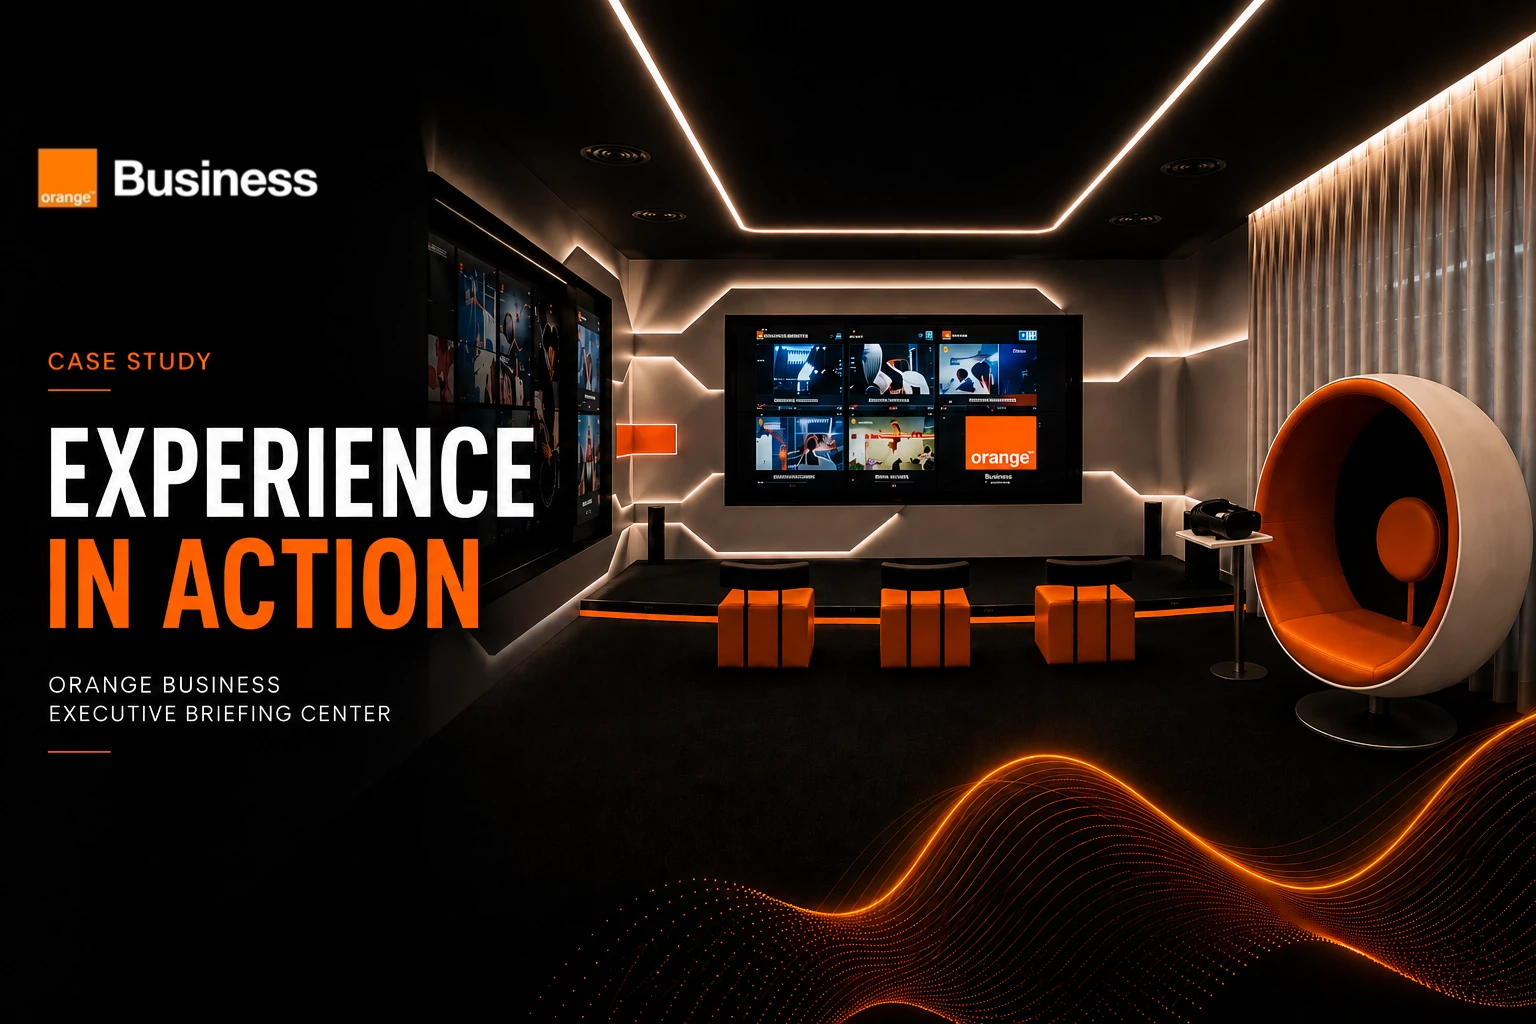
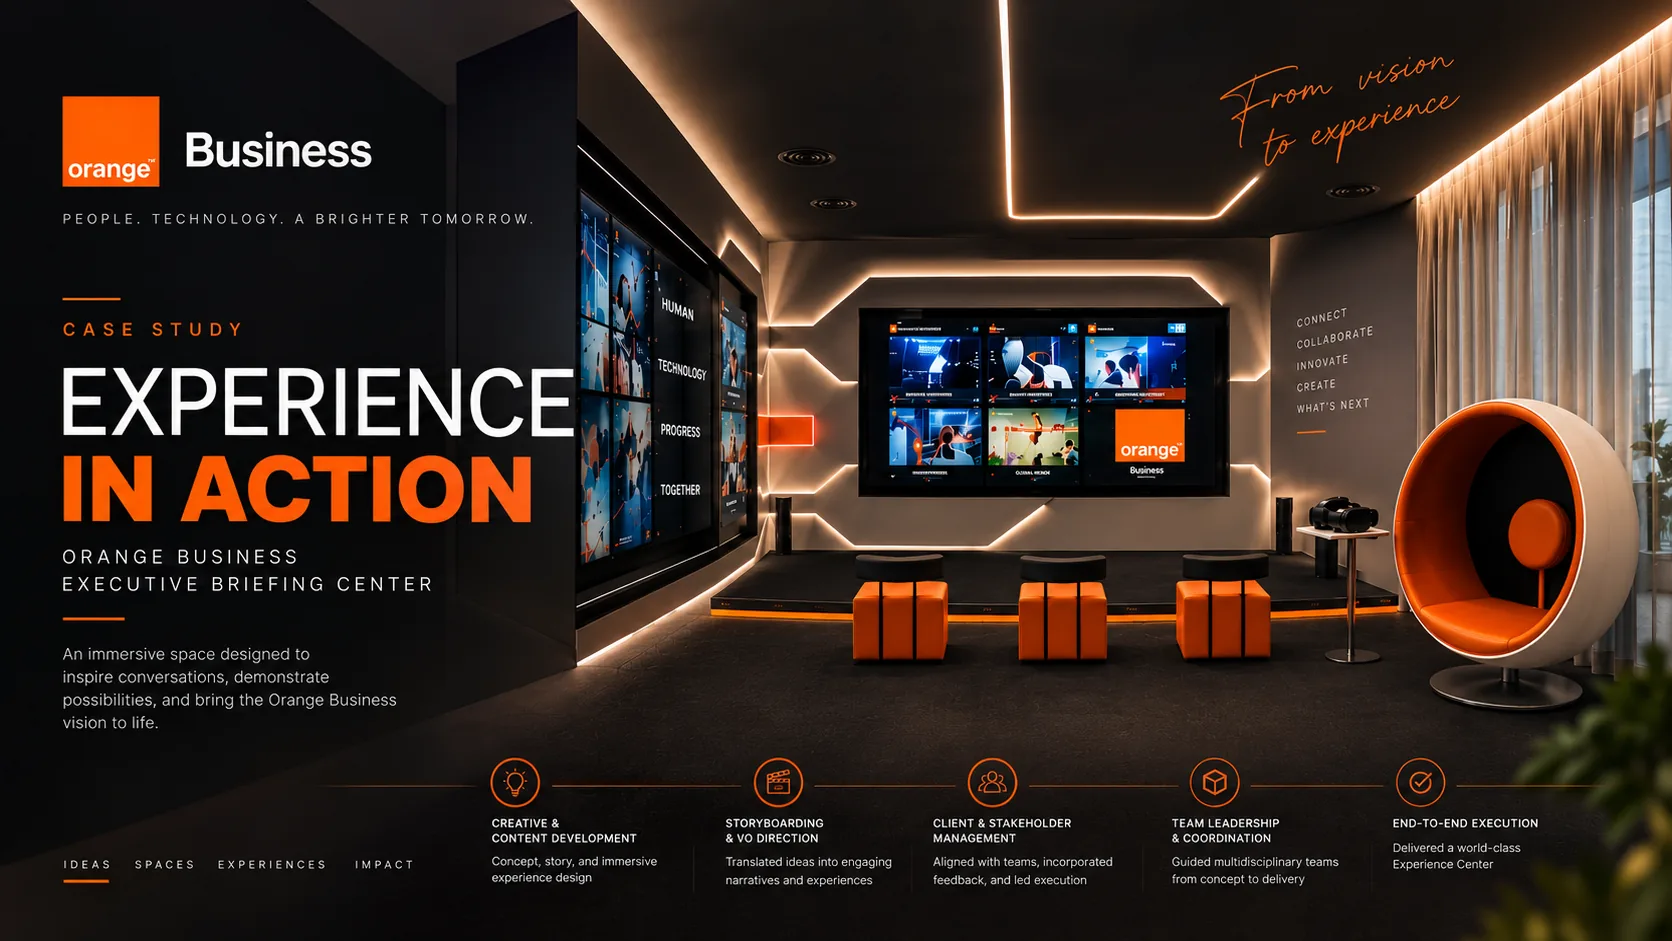
Update Indian Army and Orange Business thumbnails across the site (v2.4.20-r7)
- new 1672x941 branded artwork for case-army.webp and case-orange-experience-in-action.webp
- homepage, case-studies listing, portfolio reel, Indian Army hero, JSON-LD, og:image
- Indian Army card: contain/never-crop treatment like Orange + BPCL; reel data-fit=contain
- cache-bust (?v=20260909), corrected dimensions/alt text, stylesheet fingerprint bump
- admin media copies refreshed; CMS media registry synced

diff --git a/portfolio.html b/portfolio.html
@@ -27,7 +27,7 @@
   <meta name="twitter:image" content="https://abhijeetvarghese.com/assets/media/reel-poster-1280.webp">
   <meta name="twitter:image:alt" content="Abhijeet Varghese — Creative Director Portfolio film poster">
   <link rel="icon" type="image/png" href="assets/logo.png">
-  <link rel="stylesheet" href="css/styles.css?v=2.4.20-5c83a1d9e07">
+  <link rel="stylesheet" href="css/styles.css?v=2.4.20-7751bd758b4d">
 <link rel="stylesheet" href="css/tokens.css">
 <link rel="stylesheet" href="css/portfolio-reel.css?v=2.5.0-reel">
   <script>
@@ -343,8 +343,9 @@
               <a class="pf-card__link" href="case-studies/orange-business/" data-cursor="View" aria-label="View the Orange Business case study — New Executive Briefing Center">
                 <span class="pf-card__num" aria-hidden="true"></span>
                 <figure class="pf-card__media">
-                  <img src="assets/case-orange-experience-in-action.webp" width="1536" height="1024" loading="lazy" decoding="async"
-                       alt="Interactive experience installation at the Orange Business Executive Briefing Center">
+                  <img src="assets/case-orange-experience-in-action.webp?v=20260909" width="1672" height="941" loading="lazy" decoding="async"
+                       data-fit="contain"
+                       alt="Orange Business Executive Briefing Center — Experience in Action case-study artwork">
                   <span class="pf-card__veil" aria-hidden="true"></span>
                 </figure>
                 <div class="pf-card__body">
@@ -363,8 +364,9 @@
               <a class="pf-card__link" href="case-studies/indian-army/" data-cursor="View" aria-label="View the Indian Army case study — Immersive Solutions for Mission-Critical Environments">
                 <span class="pf-card__num" aria-hidden="true"></span>
                 <figure class="pf-card__media">
-                  <img src="assets/case-army.webp" width="640" height="427" loading="lazy" decoding="async"
-                       alt="Immersive experience environment designed for the Indian Army">
+                  <img src="assets/case-army.webp?v=20260909" width="1672" height="941" loading="lazy" decoding="async"
+                       data-fit="contain"
+                       alt="Indian Army Immersive Training Platform case-study artwork">
                   <span class="pf-card__veil" aria-hidden="true"></span>
                 </figure>
                 <div class="pf-card__body">

diff --git a/index.html b/index.html
@@ -23,7 +23,7 @@
   <meta name="twitter:description" content="Abhijeet Varghese is a multidisciplinary creative systems leader with 12+ years across experience design, enterprise innovation, immersive technology and AI-enabled creative production.">
   <meta name="twitter:image" content="https://abhijeetvarghese.com/assets/hero-portrait.webp">
   <link rel="icon" type="image/png" href="assets/logo.png">
-  <link rel="stylesheet" href="css/styles.css?v=2.4.20-5c83a1d9e07">
+  <link rel="stylesheet" href="css/styles.css?v=2.4.20-7751bd758b4d">
 <link rel="stylesheet" href="css/tokens.css">
   <script>
     document.documentElement.className += " js";
@@ -184,7 +184,7 @@
         </header>
         <article class="case" id="case-prj-1">
           <figure class="case__panel" data-parallax="0" data-reveal="img">
-            <picture><img src="assets/case-orange-experience-in-action.webp" alt="Orange Business Executive Briefing Center — Experience in Action case-study thumbnail" width="1536" height="1024" loading="lazy" decoding="async"></picture>
+            <picture><img src="assets/case-orange-experience-in-action.webp?v=20260909" alt="Orange Business Executive Briefing Center — Experience in Action case-study thumbnail" width="1672" height="941" loading="lazy" decoding="async"></picture>
             <figcaption class="case__card" data-reveal>
               <div class="case__card__in">
                 <p class="case__cat">Telecom &amp; Digital Services</p>
@@ -228,7 +228,7 @@
         </article>
         <article class="case" id="case-prj-3">
           <figure class="case__panel" data-parallax="0.05" data-reveal="img">
-            <picture><img src="assets/case-army.webp" alt="Indian Army — Defence &amp; Immersive engagement" width="1536" height="1024" loading="lazy" decoding="async"></picture>
+            <picture><img src="assets/case-army.webp?v=20260909" alt="Indian Army Immersive Training Platform — Defence &amp; Immersive case-study artwork" width="1672" height="941" loading="lazy" decoding="async"></picture>
             <figcaption class="case__card" data-reveal>
               <div class="case__card__in">
                 <p class="case__cat">Defence &amp; Government</p>

diff --git a/case-studies/index.html b/case-studies/index.html
@@ -23,7 +23,7 @@
   <meta name="twitter:description" content="Work that had to be understood.">
   <meta name="twitter:image" content="https://abhijeetvarghese.com/assets/hero-portrait.webp">
   <link rel="icon" type="image/png" href="../assets/logo.png">
-  <link rel="stylesheet" href="../css/styles.css?v=2.4.20-5c83a1d9e07">
+  <link rel="stylesheet" href="../css/styles.css?v=2.4.20-7751bd758b4d">
 <link rel="stylesheet" href="../css/tokens.css">
   <script>
     document.documentElement.className += " js";
@@ -91,7 +91,7 @@
       <div class="container">
         <article class="case" id="case-prj-1">
           <figure class="case__panel" data-parallax="0" data-reveal="img">
-            <picture><img src="../assets/case-orange-experience-in-action.webp" alt="Orange Business Executive Briefing Center — Experience in Action case-study thumbnail" width="1536" height="1024" loading="lazy" decoding="async"></picture>
+            <picture><img src="../assets/case-orange-experience-in-action.webp?v=20260909" alt="Orange Business Executive Briefing Center — Experience in Action case-study thumbnail" width="1672" height="941" loading="lazy" decoding="async"></picture>
             <figcaption class="case__card" data-reveal>
               <div class="case__card__in">
                 <p class="case__cat">Telecom &amp; Digital Services</p>
@@ -135,7 +135,7 @@
         </article>
         <article class="case" id="case-prj-3">
           <figure class="case__panel" data-parallax="0.05" data-reveal="img">
-            <picture><img src="../assets/case-army.webp" alt="Indian Army — Defence &amp; Immersive engagement" width="1536" height="1024" loading="lazy" decoding="async"></picture>
+            <picture><img src="../assets/case-army.webp?v=20260909" alt="Indian Army Immersive Training Platform — Defence &amp; Immersive case-study artwork" width="1672" height="941" loading="lazy" decoding="async"></picture>
             <figcaption class="case__card" data-reveal>
               <div class="case__card__in">
                 <p class="case__cat">Defence &amp; Government</p>

diff --git a/case-studies/indian-army/index.html b/case-studies/indian-army/index.html
@@ -18,12 +18,15 @@
   <meta property="og:title" content="Immersive Solutions for the Indian Army — Abhijeet Varghese">
   <meta property="og:description" content="Creating immersive solutions where clarity, precision and execution matter most.">
   <meta property="og:image" content="https://abhijeetvarghese.com/assets/case-army.webp">
+  <meta property="og:image:width" content="1672">
+  <meta property="og:image:height" content="941">
+  <meta property="og:image:alt" content="Indian Army Immersive Training Platform — case-study artwork">
   <meta name="twitter:card" content="summary_large_image">
   <meta name="twitter:title" content="Immersive Solutions for the Indian Army — Abhijeet Varghese">
   <meta name="twitter:description" content="Creating immersive solutions where clarity, precision and execution matter most.">
   <meta name="twitter:image" content="https://abhijeetvarghese.com/assets/case-army.webp">
   <link rel="icon" type="image/png" href="../../assets/logo.png">
-  <link rel="stylesheet" href="../../css/styles.css?v=2.4.20-5c83a1d9e07">
+  <link rel="stylesheet" href="../../css/styles.css?v=2.4.20-7751bd758b4d">
 <link rel="stylesheet" href="../../css/tokens.css">
   <script>
     document.documentElement.className += " js";
@@ -91,7 +94,7 @@
     <section class="case-coming t-light" aria-label="Case study preview">
       <div class="container case-coming__grid">
         <figure class="case-coming__media" data-reveal="img">
-          <img src="../../assets/case-army.webp" alt="Immersive Solutions for the Indian Army — Indian Army preview" width="1536" height="1024" fetchpriority="high" decoding="async">
+          <img src="../../assets/case-army.webp?v=20260909" alt="Indian Army Immersive Training Platform — case-study artwork" width="1672" height="941" fetchpriority="high" decoding="async">
           <figcaption>Indian Army · Defence &amp; Immersive · 2025</figcaption>
         </figure>
         <div class="case-coming__copy" data-reveal style="--d:.12s">

diff --git a/css/styles.css b/css/styles.css
@@ -1462,7 +1462,9 @@ html { scroll-padding-top: 96px; }
    thumbnail (brand artwork: logo, title, tagline and callouts) so the
    artwork is never cropped. Same treatment as the Orange Business card. */
 #case-prj-2 .case__panel img[src*="case-bpcl.webp"],
-.portfolio-piece--2 .portfolio-piece__media img[src*="case-bpcl.webp"] {
+.portfolio-piece--2 .portfolio-piece__media img[src*="case-bpcl.webp"],
+#case-prj-3 .case__panel img[src*="case-army.webp"],
+.case-coming__media img[src*="case-army.webp"] {
   object-fit: contain;
   object-position: center;
   transform: none !important;
@@ -1473,6 +1475,7 @@ html { scroll-padding-top: 96px; }
   .case__card-cta { width: 100%; justify-content: center; }
   #case-prj-1 .case__panel img[src*="case-orange-experience-in-action.webp"] { object-position: center top; }
   #case-prj-2 .case__panel img[src*="case-bpcl.webp"] { object-position: center top; }
+  #case-prj-3 .case__panel img[src*="case-army.webp"] { object-position: center top; }
 }
 
 /* ============================================================
@@ -3904,7 +3907,7 @@ body.about-page ::selection { background: rgba(110, 168, 255, 0.32); color: #EFF
   display: block;
   width: 100%;
   height: auto;
-  aspect-ratio: 3 / 2;
+  aspect-ratio: 1672 / 941;
   object-fit: cover;
 }
 .case-coming__media figcaption {

diff --git a/case-studies/orange-business/index.html b/case-studies/orange-business/index.html
@@ -23,7 +23,7 @@
   <meta name="twitter:image" content="https://abhijeetvarghese.com/assets/media/orange-business-executive-briefing-center-mumbai-panoramic.jpeg">
   <link rel="preload" href="../../assets/fonts/inter-tight-normal.woff2" as="font" type="font/woff2" crossorigin>
   <link rel="preload" href="../../assets/media/orange-business-executive-briefing-center-mumbai-panoramic-1280.webp" as="image" type="image/webp" fetchpriority="high">
-  <link rel="stylesheet" href="../../css/styles.css?v=2.4.20-5c83a1d9e07">
+  <link rel="stylesheet" href="../../css/styles.css?v=2.4.20-7751bd758b4d">
   <link rel="stylesheet" href="../../css/orange-business-case-study.css?v=2.4.20-7528cc827554">
   <script>document.documentElement.classList.add('js');</script>
   <script defer src="../../js/main.js?v=2.4.20-5c83a1d9e07"></script>

diff --git a/experience/index.html b/experience/index.html
@@ -23,7 +23,7 @@
   <meta name="twitter:description" content="Where I&#039;ve worked, what I&#039;ve led, and how my responsibilities have evolved — from creative project management to creative direction across immersive, AR/VR and experience design.">
   <meta name="twitter:image" content="https://abhijeetvarghese.com/assets/hero-portrait.webp">
   <link rel="icon" type="image/png" href="../assets/logo.png">
-  <link rel="stylesheet" href="../css/styles.css?v=2.4.20-5c83a1d9e07">
+  <link rel="stylesheet" href="../css/styles.css?v=2.4.20-7751bd758b4d">
 <link rel="stylesheet" href="../css/tokens.css">
   <script>
     document.documentElement.className += " js";

diff --git a/story.html b/story.html
@@ -23,7 +23,7 @@
   <meta name="twitter:description" content="A creative director and experience designer who started in VFX and animation and now shapes films, interactive experiences, VR/XR, experience centres and brand systems.">
   <meta name="twitter:image" content="https://abhijeetvarghese.com/assets/hero-portrait.webp">
   <link rel="icon" type="image/png" href="assets/logo.png">
-  <link rel="stylesheet" href="css/styles.css?v=2.4.20-5c83a1d9e07">
+  <link rel="stylesheet" href="css/styles.css?v=2.4.20-7751bd758b4d">
 <link rel="stylesheet" href="css/tokens.css">
   <script>
     document.documentElement.className += " js";

diff --git a/search.html b/search.html
@@ -23,7 +23,7 @@
   <meta name="twitter:description" content="Search the portfolio: projects, case studies, essays and journal entries.">
   <meta name="twitter:image" content="https://abhijeetvarghese.com/assets/hero-portrait.webp">
   <link rel="icon" type="image/png" href="assets/logo.png">
-  <link rel="stylesheet" href="css/styles.css?v=2.4.20-5c83a1d9e07">
+  <link rel="stylesheet" href="css/styles.css?v=2.4.20-7751bd758b4d">
 <link rel="stylesheet" href="css/tokens.css">
   <script>
     document.documentElement.className += " js";

diff --git a/essay-why-enterprise-experiences-fail.html b/essay-why-enterprise-experiences-fail.html
@@ -23,7 +23,7 @@
   <meta name="twitter:description" content="Jargon, org charts and inherited complexity — the three silent killers.">
   <meta name="twitter:image" content="https://abhijeetvarghese.com/assets/essay-04.webp">
   <link rel="icon" type="image/png" href="assets/logo.png">
-  <link rel="stylesheet" href="css/styles.css?v=2.4.20-5c83a1d9e07">
+  <link rel="stylesheet" href="css/styles.css?v=2.4.20-7751bd758b4d">
 <link rel="stylesheet" href="css/tokens.css">
   <script>
     document.documentElement.className += " js";

diff --git a/essay-technology-should-feel-human.html b/essay-technology-should-feel-human.html
@@ -23,7 +23,7 @@
   <meta name="twitter:description" content="The most advanced systems fail when they forget the person holding them.">
   <meta name="twitter:image" content="https://abhijeetvarghese.com/assets/essay-01.webp">
   <link rel="icon" type="image/png" href="assets/logo.png">
-  <link rel="stylesheet" href="css/styles.css?v=2.4.20-5c83a1d9e07">
+  <link rel="stylesheet" href="css/styles.css?v=2.4.20-7751bd758b4d">
 <link rel="stylesheet" href="css/tokens.css">
   <script>
     document.documentElement.className += " js";

diff --git a/essay-ai-isnt-replacing-creativity.html b/essay-ai-isnt-replacing-creativity.html
@@ -23,7 +23,7 @@
   <meta name="twitter:description" content="Machines compress exploration; humans still do judgment.">
   <meta name="twitter:image" content="https://abhijeetvarghese.com/assets/essay-02.webp">
   <link rel="icon" type="image/png" href="assets/logo.png">
-  <link rel="stylesheet" href="css/styles.css?v=2.4.20-5c83a1d9e07">
+  <link rel="stylesheet" href="css/styles.css?v=2.4.20-7751bd758b4d">
 <link rel="stylesheet" href="css/tokens.css">
   <script>
     document.documentElement.className += " js";
